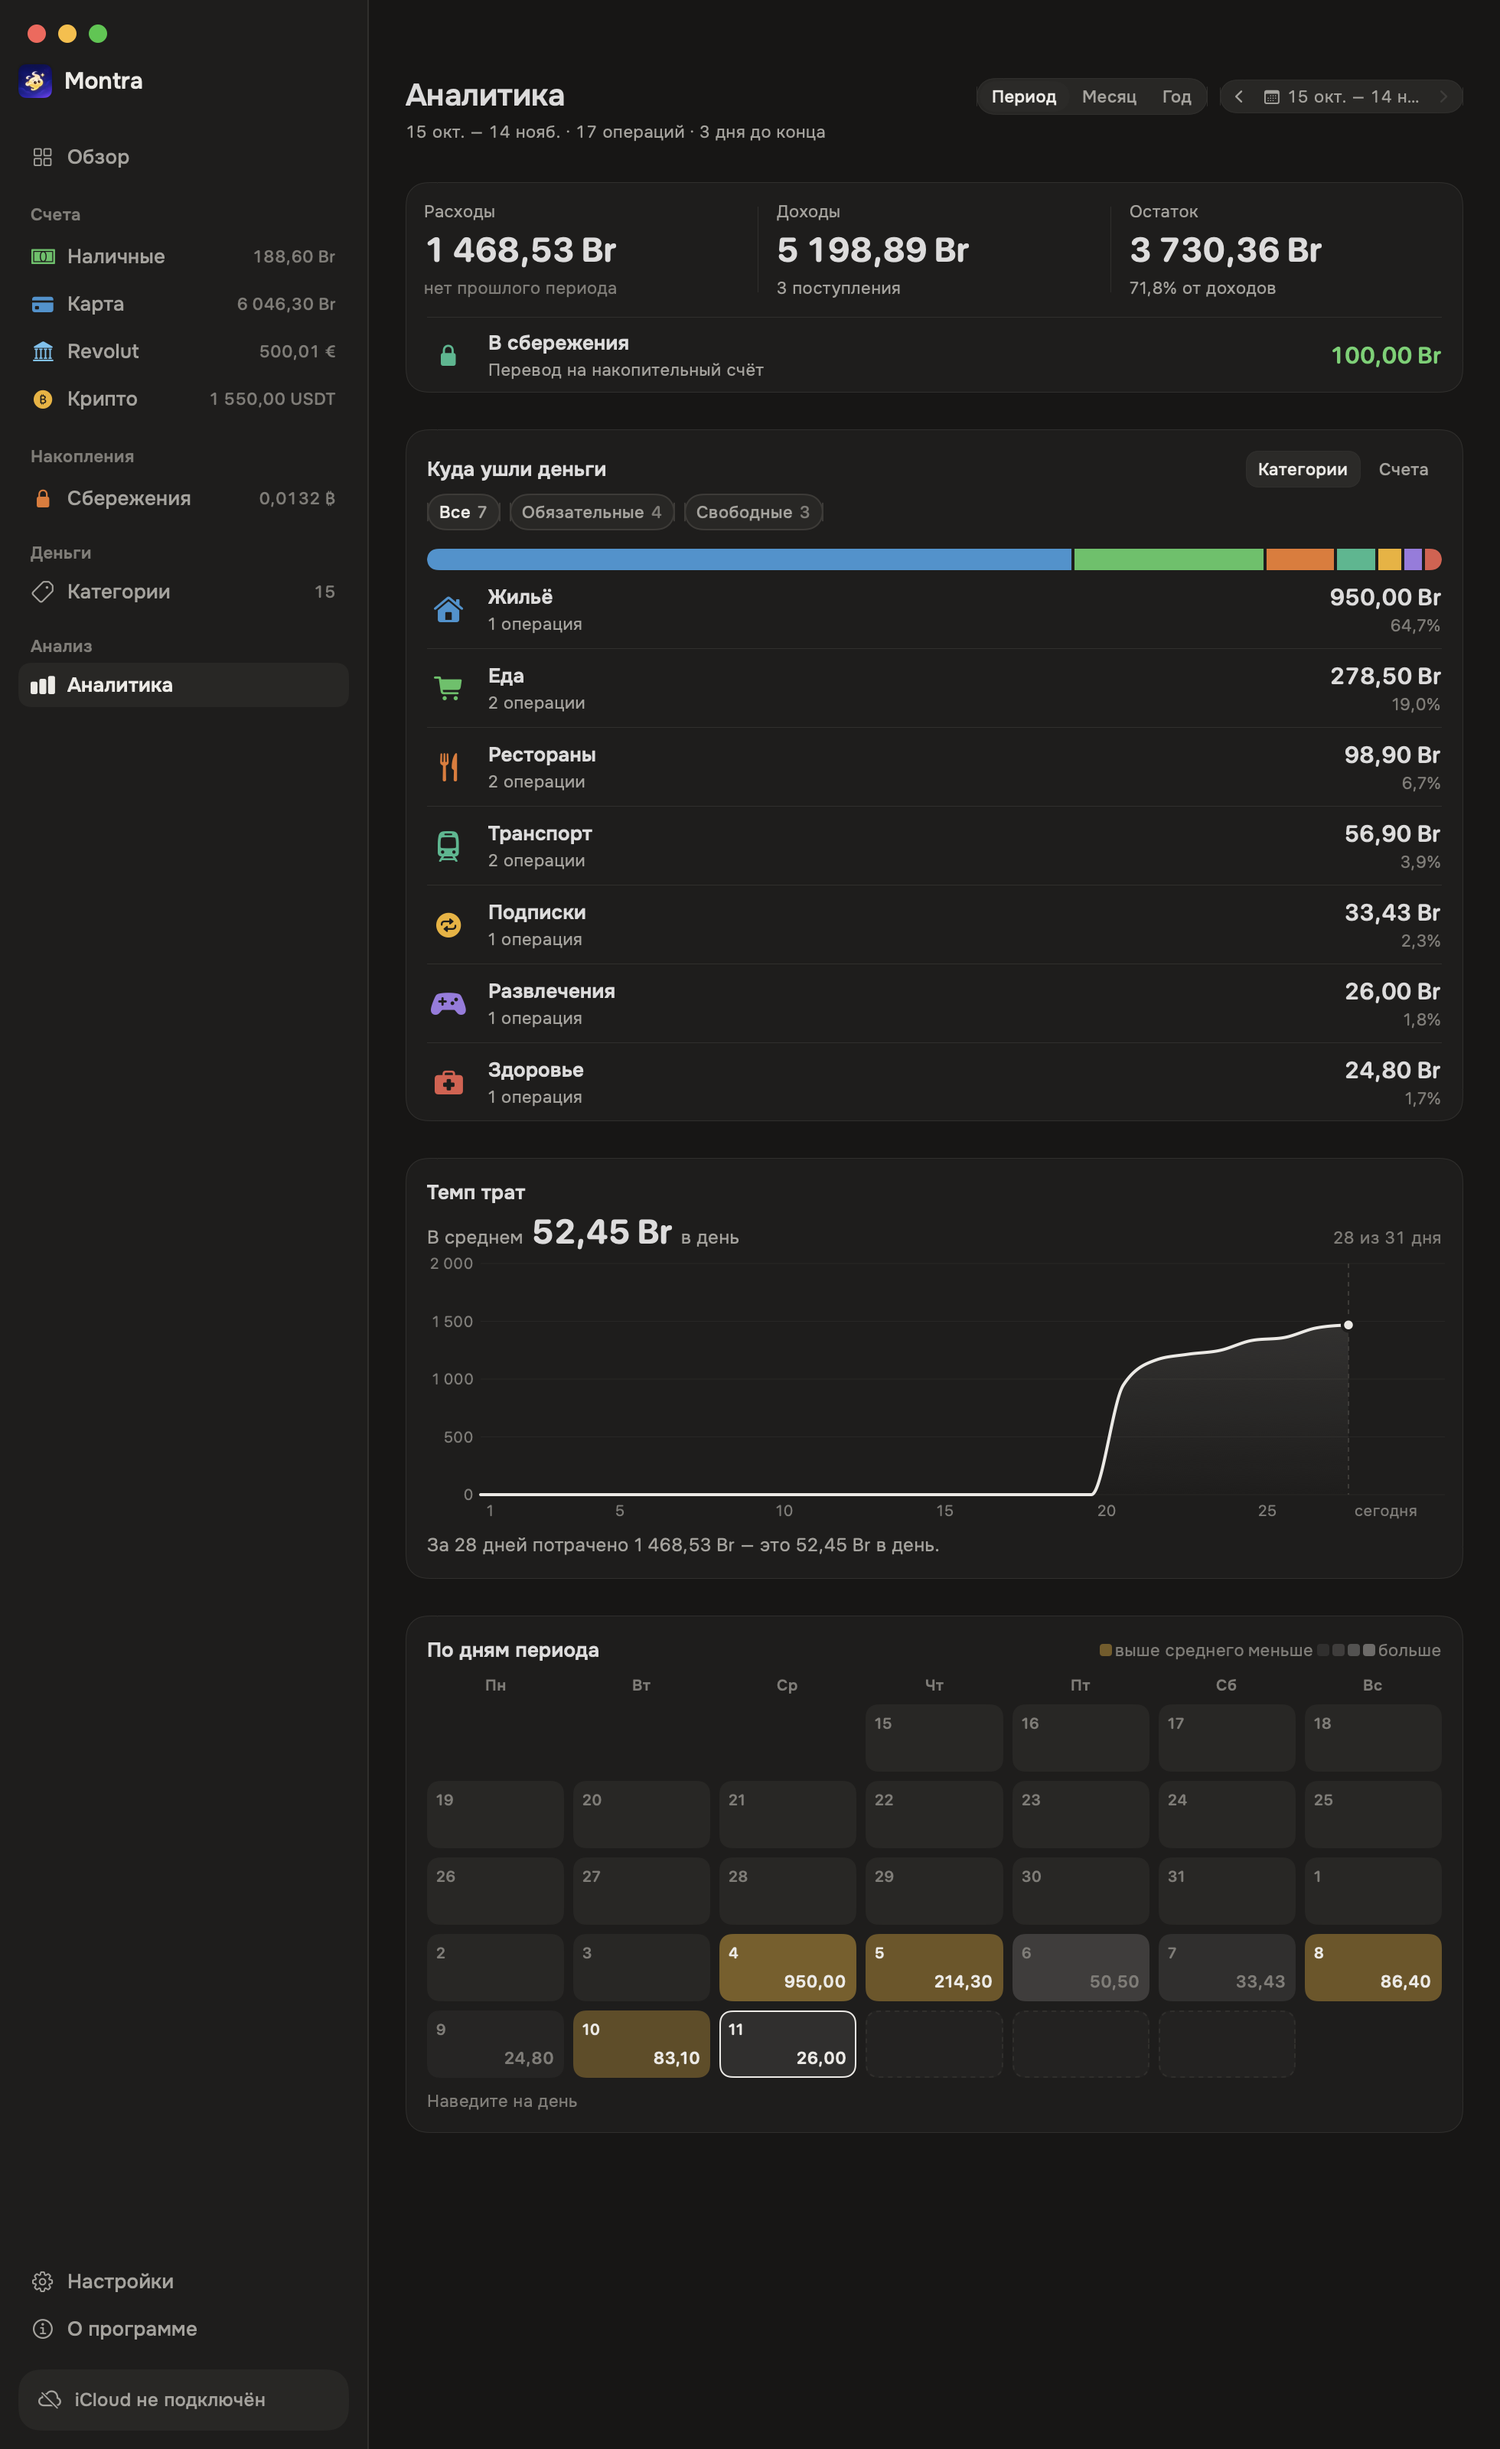
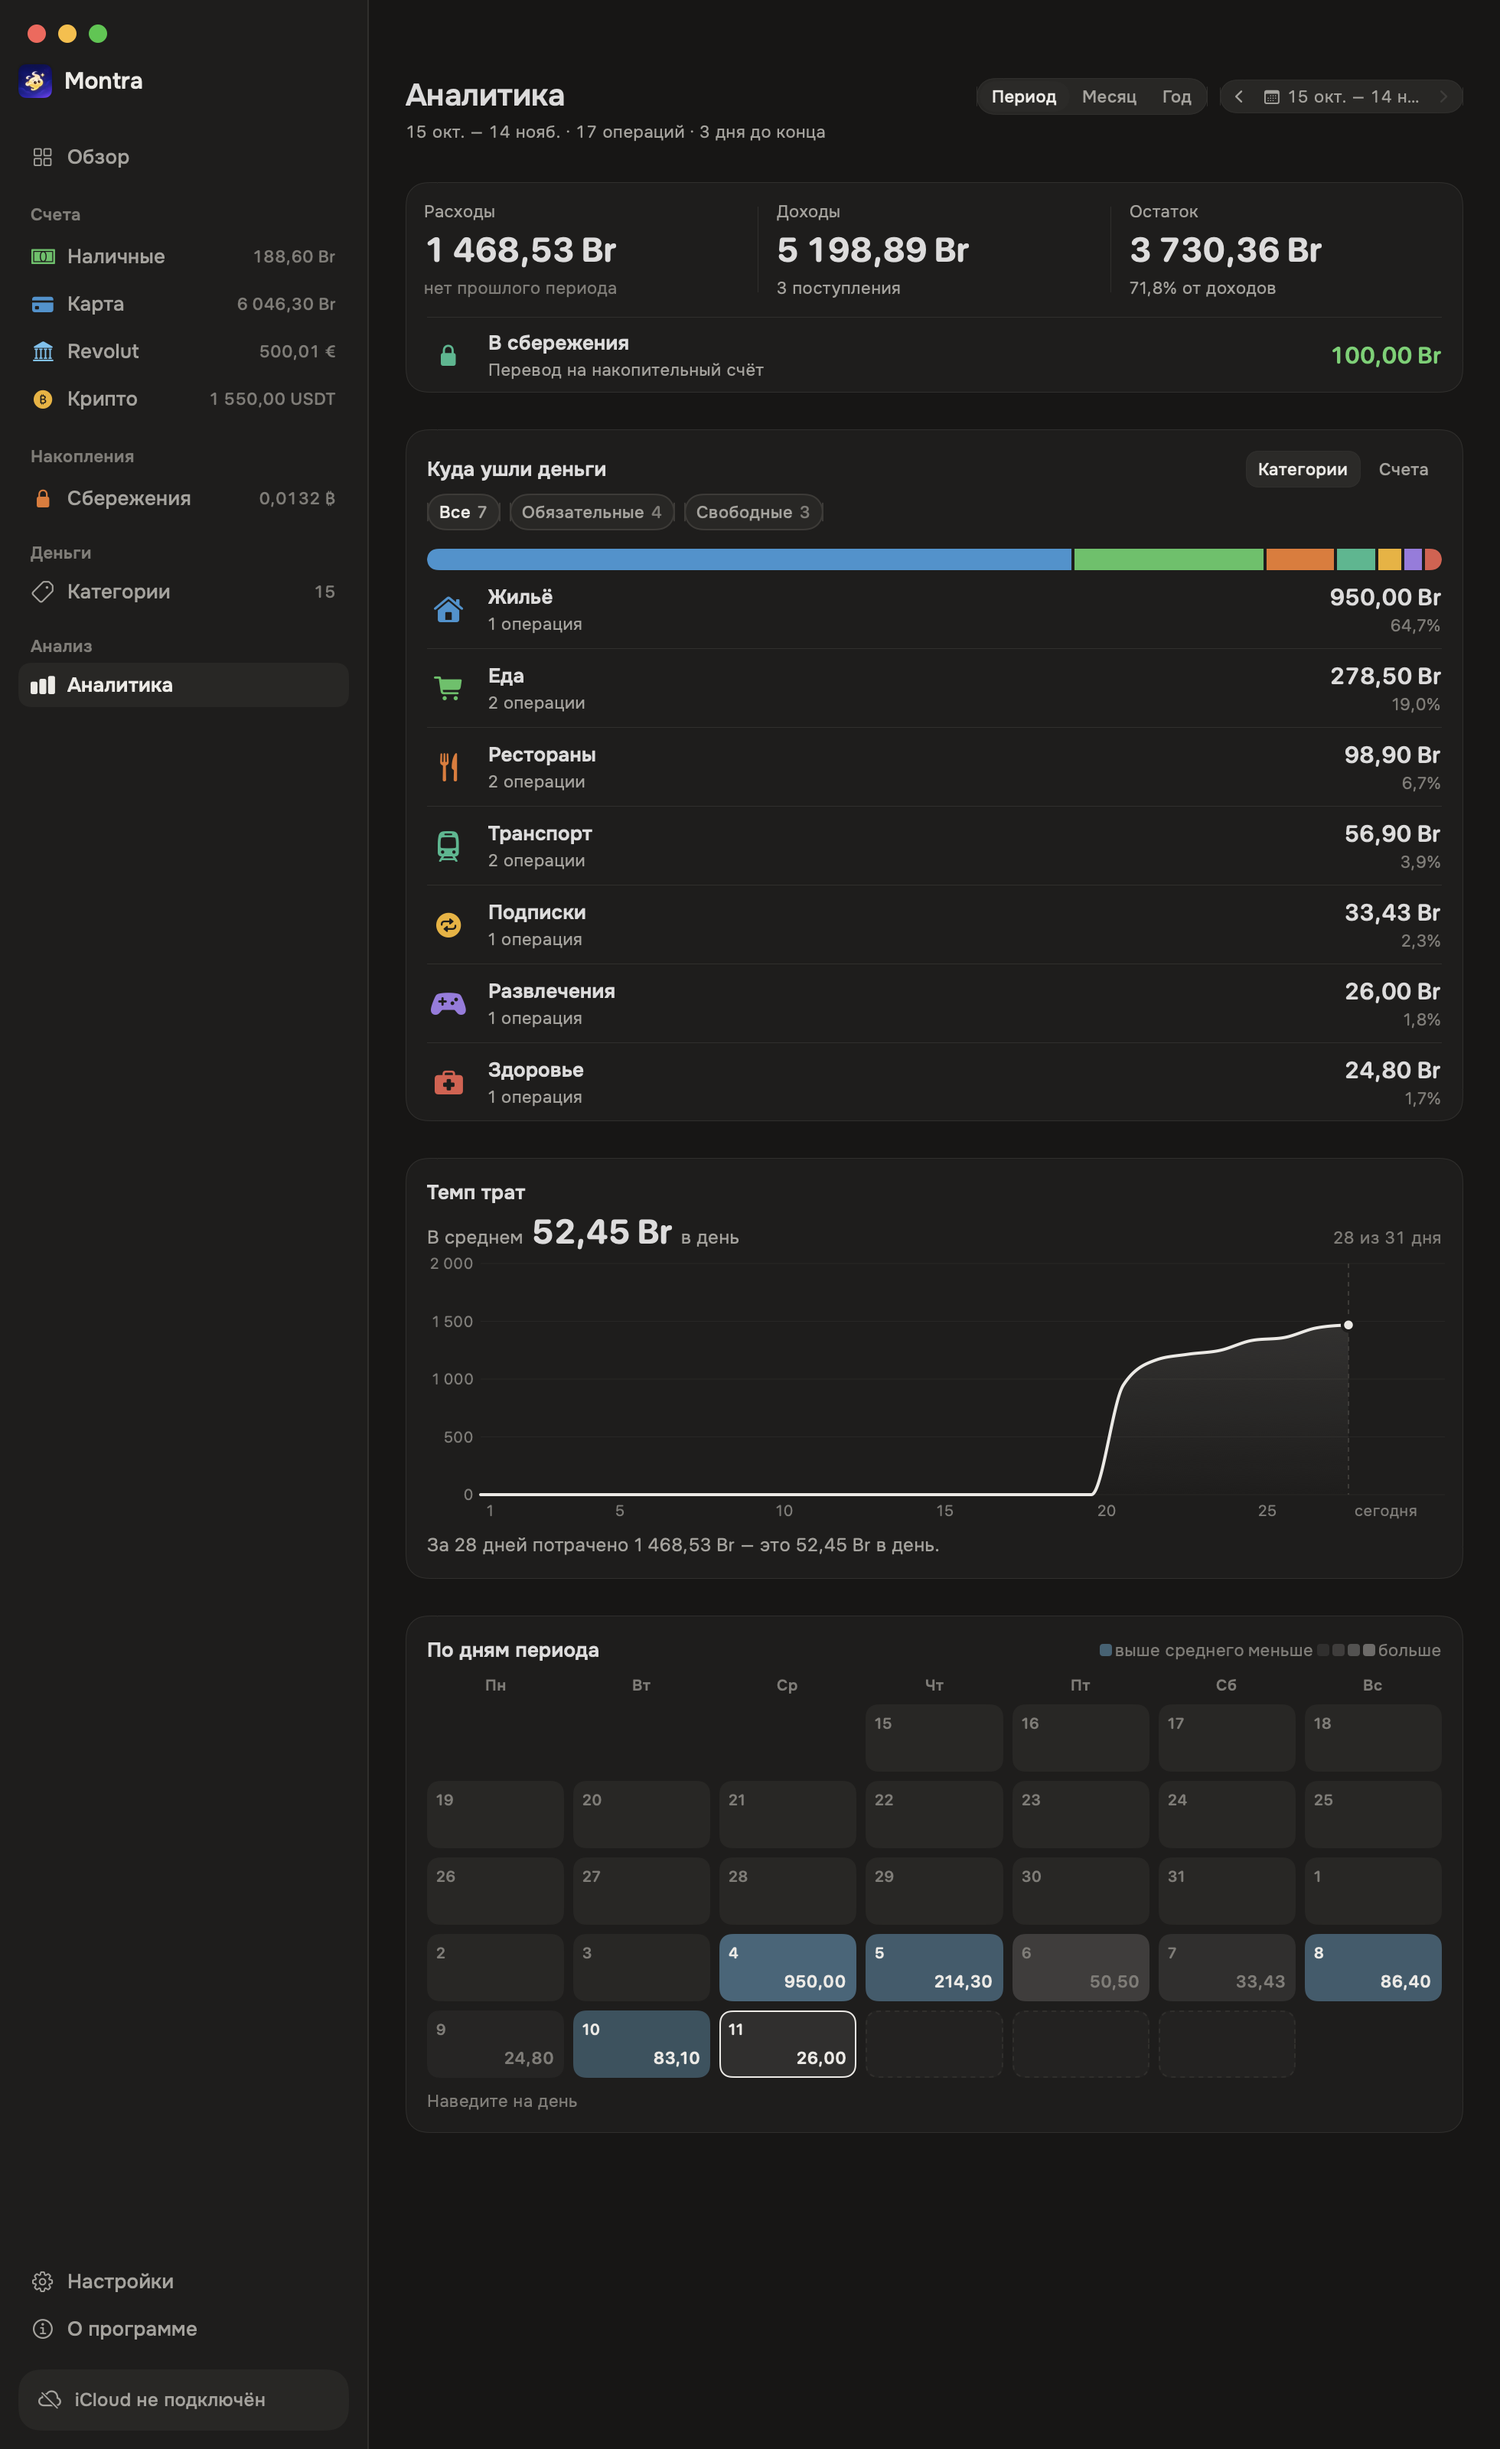
fix(analytics): smooth scrolling, animate summary, cool palette
Remove per-row hover so only the progress bar drives highlighting, reveal summary figures with numeric transitions, and move the above-average heat accent from amber to the app's cool sky.

Changed region(s): [[0.3735, 0.7812, 0.6847, 0.875], [0.8714, 0.7812, 0.9648, 0.8438]]

diff --git a/Montra/Features/Analytics/AnalyticsView.swift b/Montra/Features/Analytics/AnalyticsView.swift
@@ -415,12 +415,14 @@ private struct AnalyticsSummaryCard: View {
     let currency: Currency
     let masked: Bool
 
+    @State private var revealed = false
+
     var body: some View {
         OverviewCard {
             HStack(alignment: .top, spacing: 0) {
                 SummaryCell(
                     label: String(localized: "common.expenses"),
-                    value: money(snapshot.expenses),
+                    value: money(revealed ? snapshot.expenses : 0),
                     sub: AnyView(expenseSub)
                 )
 
@@ -428,7 +430,7 @@ private struct AnalyticsSummaryCard: View {
 
                 SummaryCell(
                     label: String(localized: "common.income"),
-                    value: money(snapshot.income),
+                    value: money(revealed ? snapshot.income : 0),
                     sub: AnyView(incomeSub)
                 )
 
@@ -436,7 +438,7 @@ private struct AnalyticsSummaryCard: View {
 
                 SummaryCell(
                     label: String(localized: "analytics.remaining"),
-                    value: money(snapshot.remaining),
+                    value: money(revealed ? snapshot.remaining : 0),
                     sub: AnyView(remainingSub)
                 )
             }
@@ -464,6 +466,7 @@ private struct AnalyticsSummaryCard: View {
                 }
             }
         }
+        .onAppear { revealed = true }
     }
 
     private func savingsRow(title: String, detail: String, value: String, positive: Bool) -> some View {
@@ -560,6 +563,8 @@ private struct SummaryCell: View {
     let value: String
     let sub: AnyView
 
+    @Environment(\.accessibilityReduceMotion) private var reduceMotion
+
     var body: some View {
         VStack(alignment: .leading, spacing: 5) {
             Text(label)
@@ -570,6 +575,8 @@ private struct SummaryCell: View {
                 .monospacedDigit()
                 .lineLimit(1)
                 .minimumScaleFactor(0.7)
+                .contentTransition(reduceMotion ? .identity : .numericText())
+                .animation(reduceMotion ? nil : AppMotion.number, value: value)
             sub
         }
         .frame(maxWidth: .infinity, alignment: .leading)
@@ -850,10 +857,6 @@ private struct AnalyticsBreakdownCard: View {
             hoveredSliceID == slice.id
                 ? AppColors.fillSecondary.opacity(0.5)
                 : .clear
-        }
-        .contentShape(Rectangle())
-        .onHover { hovering in
-            hoveredSliceID = hovering ? slice.id : nil
         }
         .accessibilityElement(children: .combine)
     }
@@ -1289,7 +1292,7 @@ private struct AnalyticsHeatCard: View {
     private var legend: some View {
         HStack(spacing: AppStyle.Spacing.xxxSmall) {
             RoundedRectangle(cornerRadius: 2, style: .continuous)
-                .fill(AppColors.Chart.amber.opacity(0.42))
+                .fill(AppColors.Chart.sky.opacity(0.42))
                 .frame(width: 8, height: 8)
             Text(String(localized: "analytics.above_average"))
                 .font(AppStyle.Typography.metadata)
@@ -1317,7 +1320,7 @@ private struct AnalyticsHeatCard: View {
         if day.isFuture || day.amount <= 0 {
             fill = AppColors.fillSecondary
         } else if aboveAverage {
-            fill = AppColors.Chart.amber.opacity(0.20 + Double(level) * 0.06)
+            fill = AppColors.Chart.sky.opacity(0.20 + Double(level) * 0.06)
         } else {
             fill = AppColors.textPrimary.opacity(AnalyticsEngine.heatOpacities[level])
         }

diff --git a/Docs/Feature-Inventory.md b/Docs/Feature-Inventory.md
@@ -269,7 +269,7 @@ Use a 980×700 window with a 240 pt sidebar and `hiddenTitleBar`.
 |---|---|---|---|
 | ABT-01 | About | Montra artwork, version, total across accounts in the primary currency, feature summary, and footer | ui/visual |
 | ABT-02 | Replay | Preview banner, no writes, X closes, and completion opens Overview | ui |
-| ABT-03 | Analytics | Period, month, and year scopes, previous/current stepper, summary expenses/income/left, savings transfers shown separately, category or account split, essential/discretionary filters, informational rows with plain transaction-style icons, expandable "Other" group for categories below 1% of expenses, cumulative chart with previous/even pace and month labels on the year axis, chart hover and keyboard, heat map with today marker, above-average amber palette and readout, interactive day-operations popup with scroll and close delay, non-clickable informational category/account rows, empty state, light/dark, and year boundaries. Engine: totals, savings in/out, comparison windows, cumulative endpoint, heat levels, chart ceiling, year day count | unit/ui/visual |
+| ABT-03 | Analytics | Period, month, and year scopes, previous/current stepper, summary expenses/income/left, savings transfers shown separately, category or account split, essential/discretionary filters, informational rows with plain transaction-style icons, expandable "Other" group for categories below 1% of expenses, cumulative chart with previous/even pace and month labels on the year axis, chart hover and keyboard, heat map with today marker, above-average accent palette and readout, interactive day-operations popup with scroll and close delay, non-clickable informational category/account rows, empty state, light/dark, and year boundaries. Engine: totals, savings in/out, comparison windows, cumulative endpoint, heat levels, chart ceiling, year day count | unit/ui/visual |
 
 ### 2.14 Formatting, accessibility, and animation
 

diff --git a/Docs/Analytics-Critic-Report.md b/Docs/Analytics-Critic-Report.md
@@ -55,7 +55,19 @@ They appear only in the savings line. The engine test covers both directions:
   cell into it, scrolls through every operation, has a close delay, and uses the
   raised card surface with a small caret. The old 4-item truncation is gone.
 
-## UI findings
+## Scroll, animation, and palette pass
+
+- Removed the per-row hover. The only remaining hover is on the progress bar;
+  the row highlight is driven by that bar. When the bar scrolls out of view there
+  is no hover state left to recalculate, and scrolling over the category rows no
+  longer invalidates the card. This is the code-level fix for the reported
+  stutter; no Computer Use / Instruments capture was possible in this session.
+- The summary expenses/income/remaining now reveal from 0 with
+  `.numericText()` and `AppMotion.number`, matching Overview. The reveal runs on
+  first appearance and value changes.
+- The heat above-average accent changed from amber/brown to `Chart.sky`, so the
+  calendar no longer reads brown against the dark new-operation sheet. The
+  legend and above-average cells use the same cool accent in light and dark.
 
 1. **Category and account icons — fixed.** Rows use `ListRowIcon`, the same plain
    category-coloured glyph as the transaction list. The rounded gradient tiles

diff --git a/README.md b/README.md
@@ -114,7 +114,7 @@ checks, and edge cases.
   or a calendar month. Switch between category and account breakdowns, filter
   essential or discretionary spending, expand a row for its latest operations,
   compare the cumulative pace with the previous period, and scan the spending
-  calendar with a day readout and above-average days in amber. Hover a day for an
+  calendar with a day readout and above-average days in the app accent. Hover a day for an
   interactive popup with that day's operations; scroll it for a long day. Switch
   to Year for income, spending, a pace chart with month labels, and a 12-month
   summary. Category rows are informational; categories below 1% of spending are
